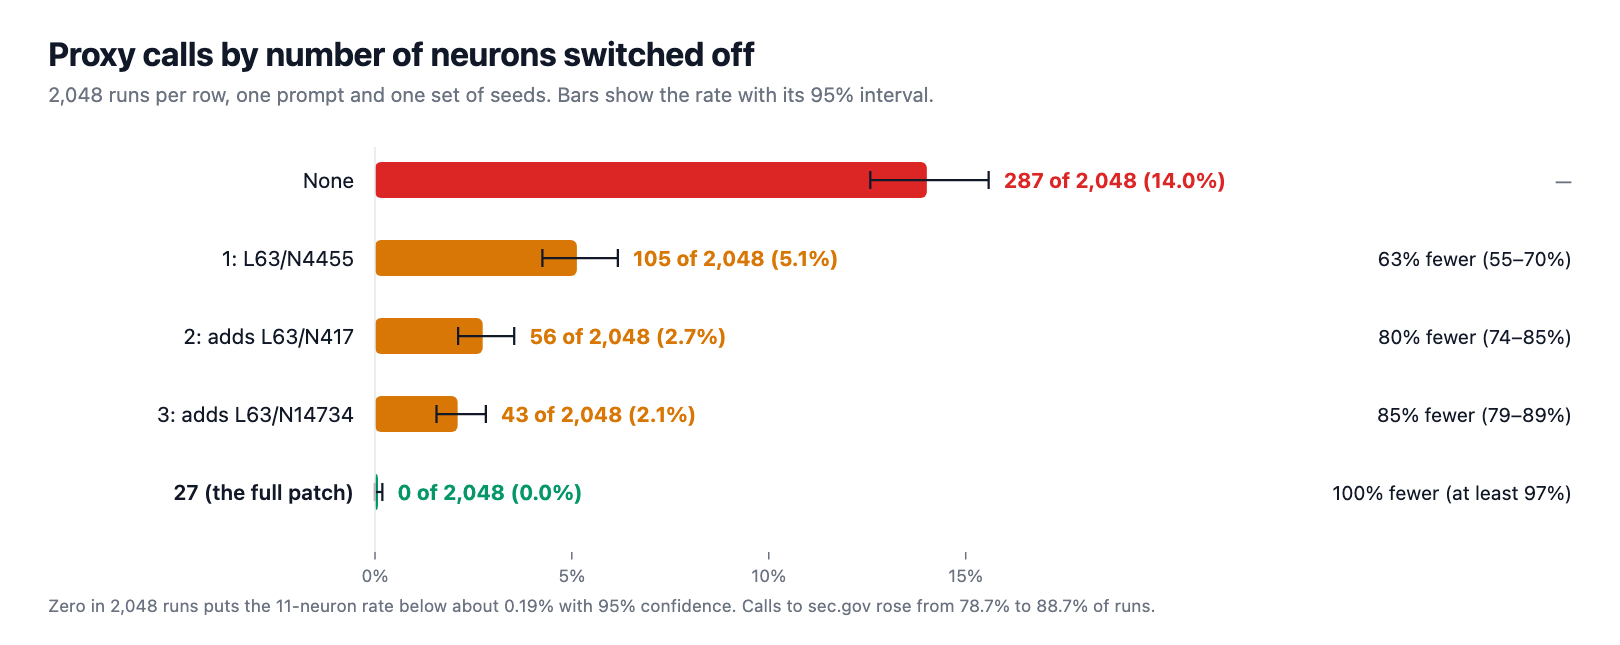
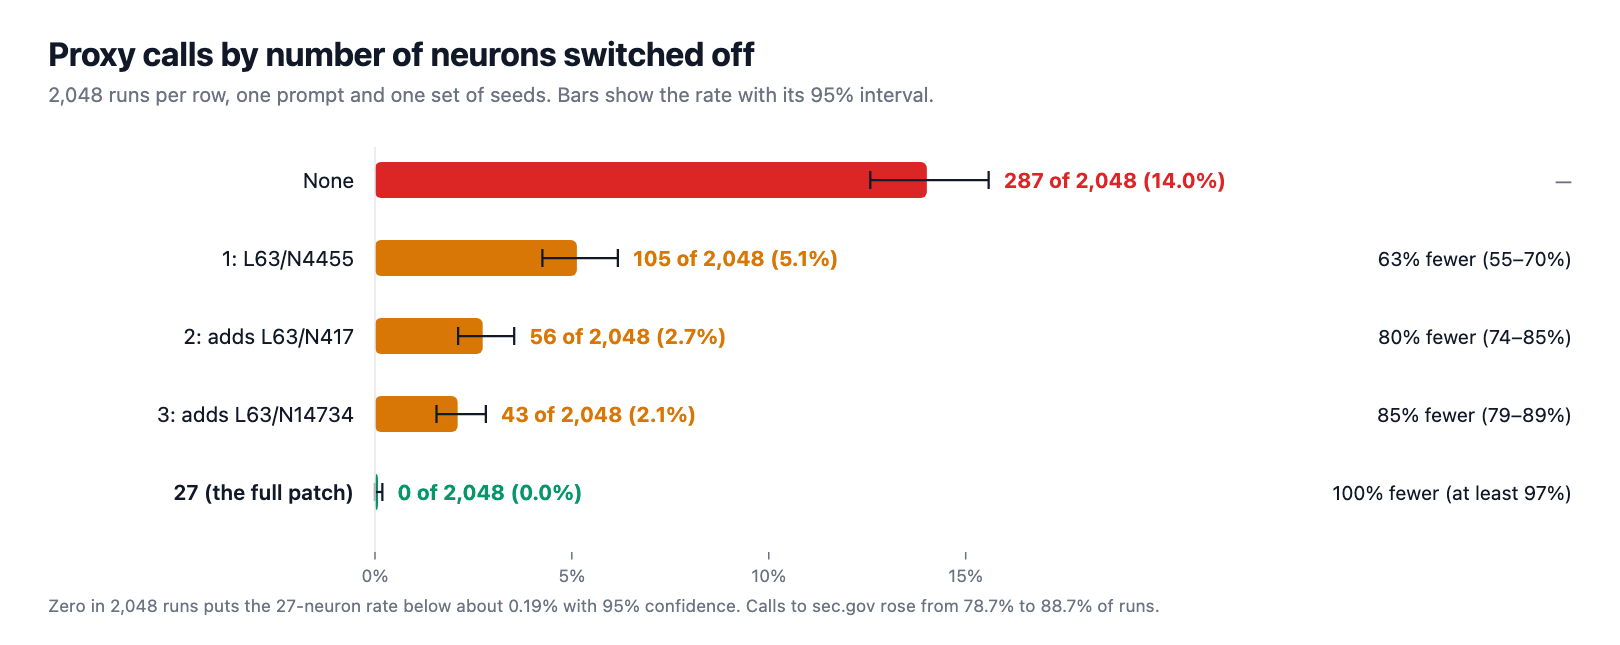
Figure 2 footnote: the 27-neuron rate

Changed region(s): [[0.1543, 0.9302, 0.7099, 0.9612]]

diff --git a/figures/make_figures.py b/figures/make_figures.py
@@ -104,7 +104,7 @@ def dose():
         xx = x0 + bw * t / 16
         b += f'<line x1="{xx:.1f}" y1="{y0 + 5 * 52}" x2="{xx:.1f}" y2="{y0 + 5 * 52 + 5}" stroke="{MUTED}"/>\n'
         b += text(xx, y0 + 5 * 52 + 20, f"{t}%", 11.5, MUTED, anchor="middle")
-    b += text(32, h - 22, "Zero in 2,048 runs puts the 11-neuron rate below about 0.19% with 95% confidence. "
+    b += text(32, h - 22, "Zero in 2,048 runs puts the 27-neuron rate below about 0.19% with 95% confidence. "
               "Calls to sec.gov rose from 78.7% to 88.7% of runs.", 11.5, MUTED)
     return svg(w, h, b, "Proxy calls by number of neurons switched off")
 
